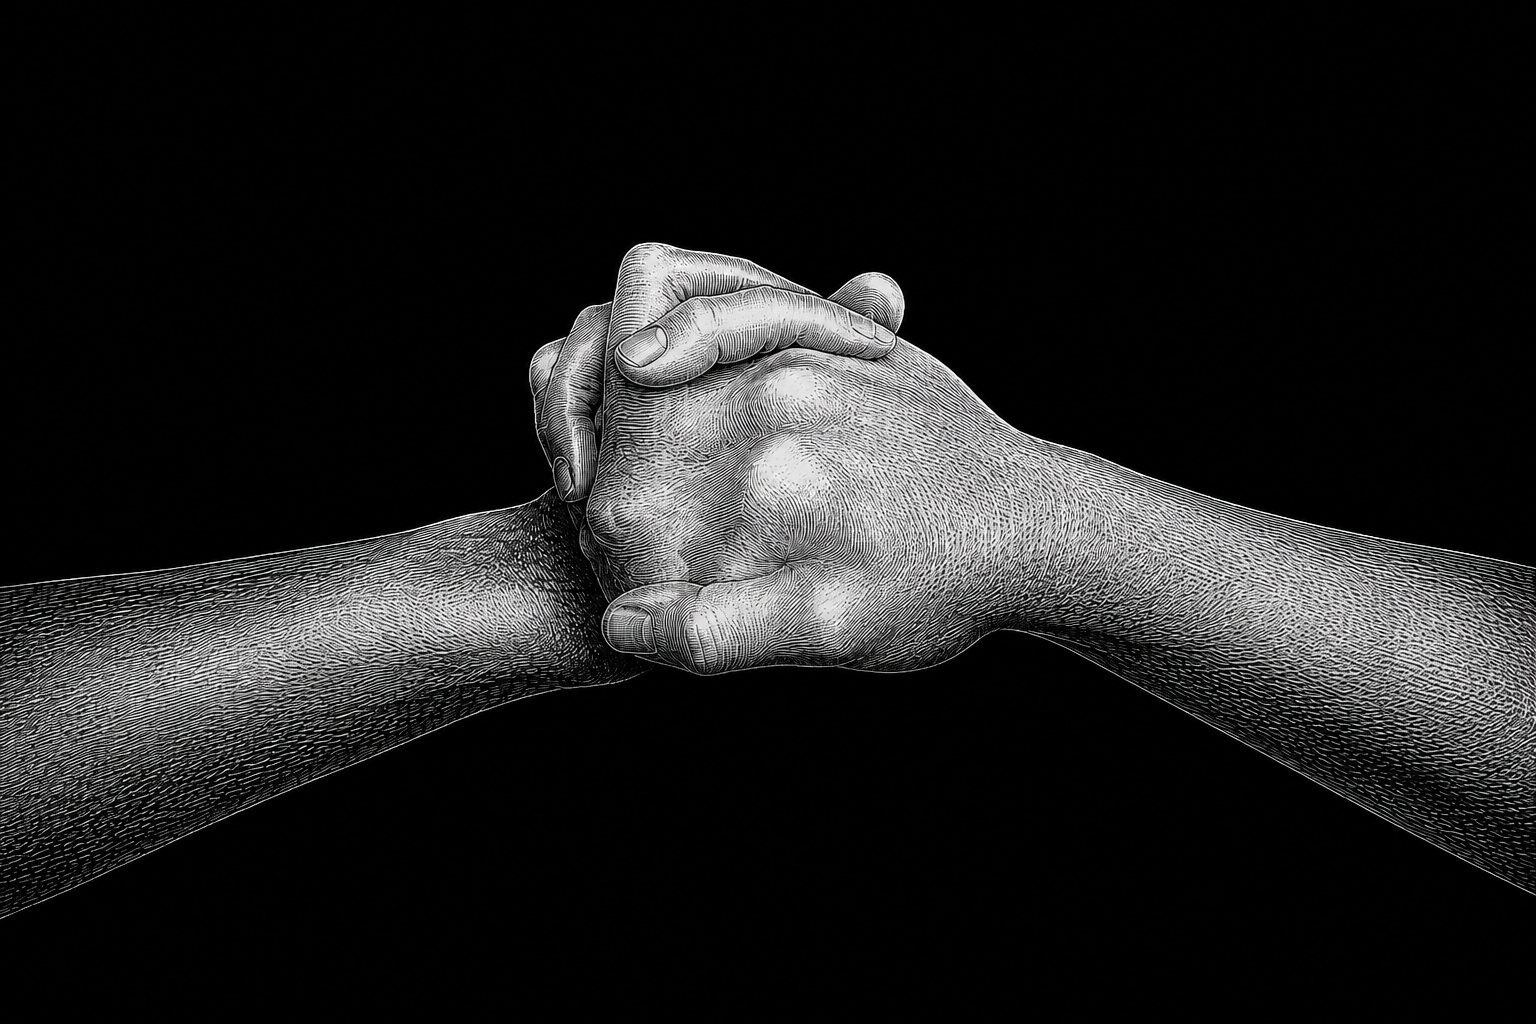
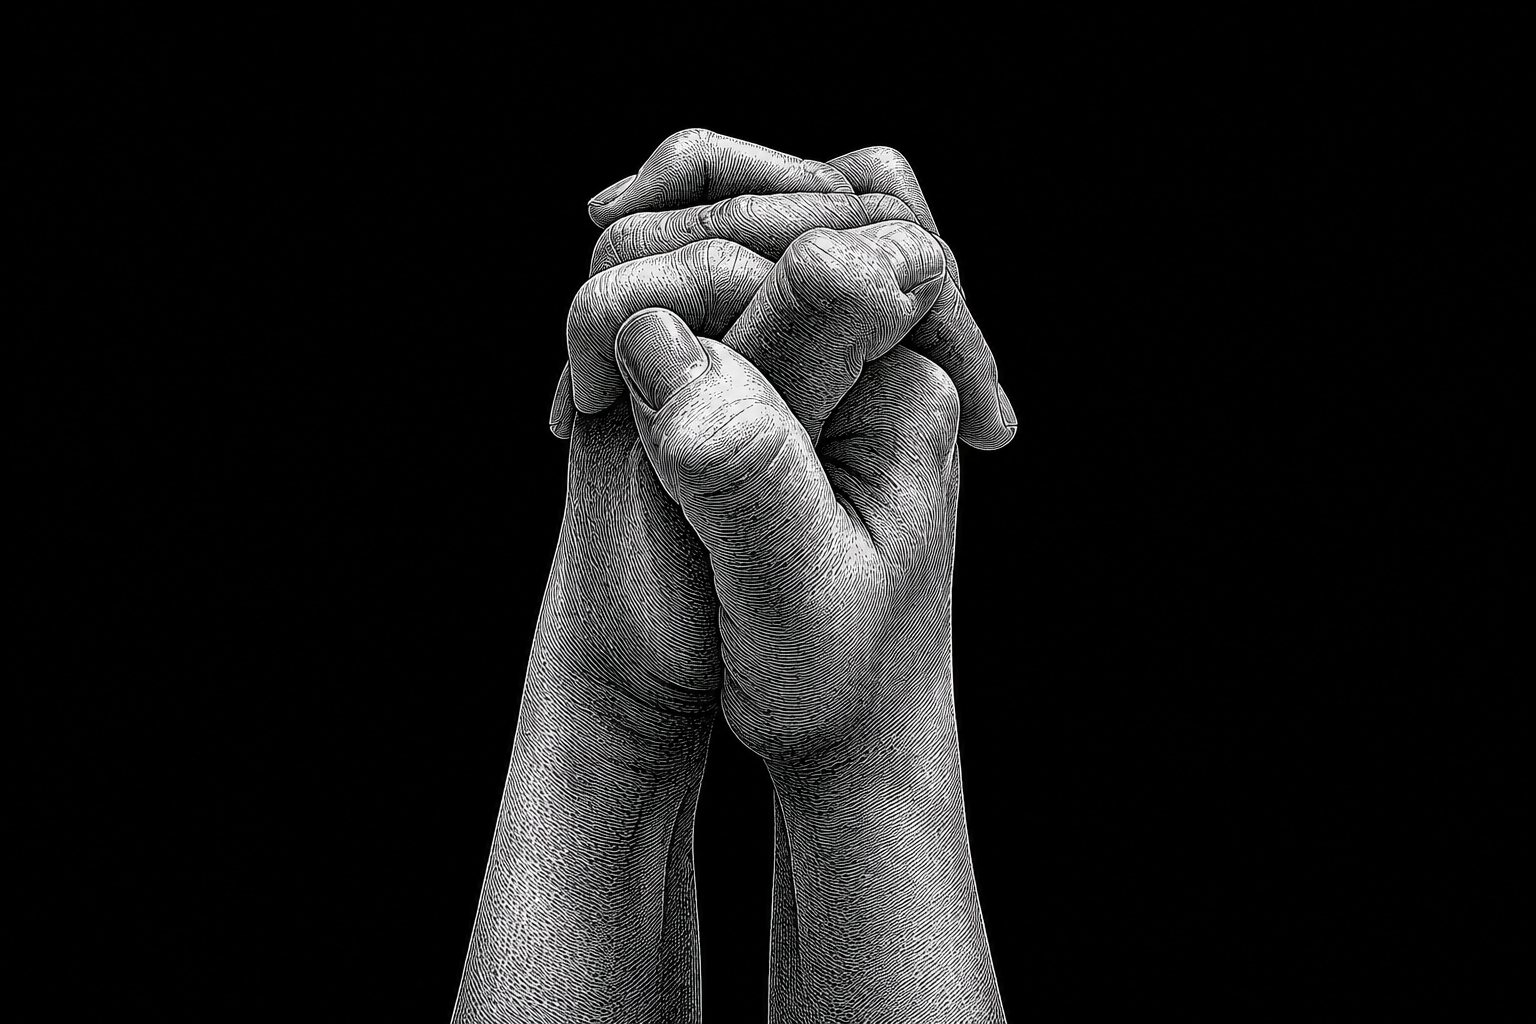
Use upright interlaced fingers for final clasp pose

diff --git a/app/handshake-intro.tsx b/app/handshake-intro.tsx
@@ -2,14 +2,14 @@
 
 import { useCallback, useEffect, useRef, useState } from 'react';
 
-const SEEN_KEY = 'opium-handshake-intro-v2';
+const SEEN_KEY = 'opium-handshake-intro-v3';
 const STEPS = [
   { src: '/handsign-v2-web.jpg', name: 'Thumb-web hook' },
   { src: '/handsign-v2-reverse.jpg', name: 'Reverse thumb-web hook' },
   { src: '/handsign-v2-pinky.jpg', name: 'Pinky hook' },
   { src: '/handsign-v2-double.jpg', name: 'Pinky and index hook' },
   { src: '/handsign-v2-web.jpg', name: 'Return to thumb-web hook' },
-  { src: '/handsign-v2-clasp.jpg', name: 'Clasp' },
+  { src: '/handsign-v2-clasp.jpg?v=interlaced', name: 'Interlaced clasp' },
 ];
 const RELEASE_IMAGE = '/handsign-v2-release.jpg';
 const FRAMES = [...new Set([...STEPS.map(step => step.src), RELEASE_IMAGE])];
